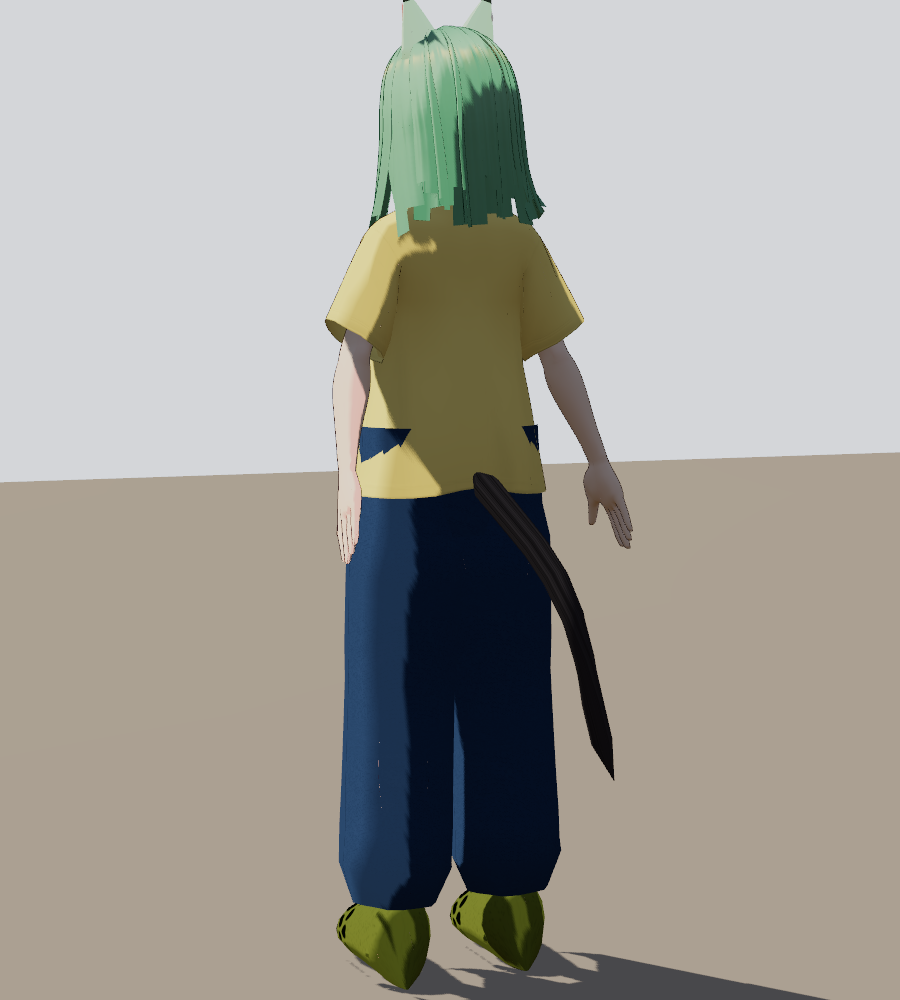
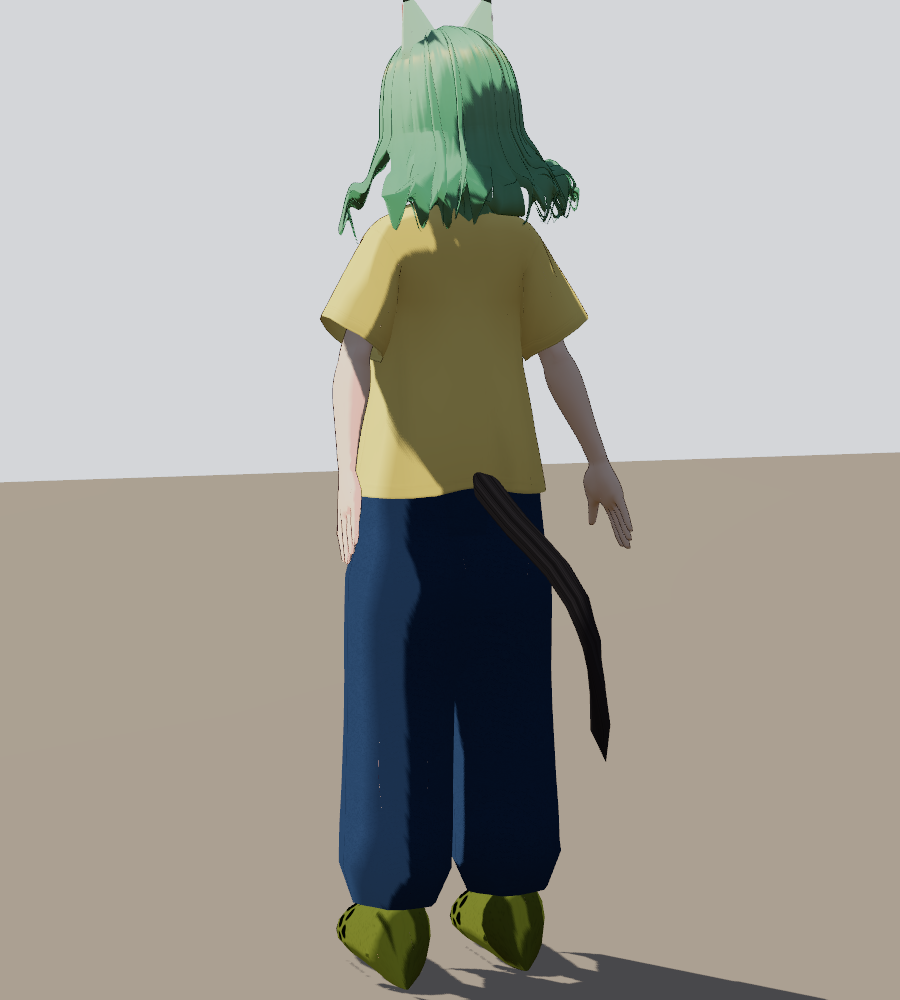
Cat kid: reshape VRoid hair into a shaggy flicked bob, fix trouser waist
Compress the long VRoid strands toward the head so they keep tapered
tips, flick them outward and pin them to the head bone; keep the
generated trouser waist under the loose part of the tee.

Claude-Session: https://claude.ai/code/session_014kRkJrMR3kPH5Lt5yexViw

diff --git a/src/characters/catkid.js b/src/characters/catkid.js
@@ -163,42 +163,51 @@ export class CatKid {
 
 		}
 
-		// cut the long hair into a shaggy bob: drop triangles that hang below the jaw line
-		const neck = this.bonePos( 'neck' );
-		const cutY = neck.y + 0.02;
+		// reshape the long hair into the sheet's shaggy bob: strands below the ear line are compressed
+		// toward the head (so they keep their tapered tips), flicked outward at the ends and pinned to
+		// the head bone so the now-unused hair physics chain can't drag them around
+		const head = this.bonePos( 'head' );
+		const earLine = head.y + 0.055;
+		const jaw = head.y - 0.075;
 		for ( const key of [ 'Hair_00_HAIR', 'HairBack_00_HAIR' ] ) {
 
 			const e = this.meshes[ key ];
 			if ( ! e ) continue;
-			const geo = e.mesh.geometry;
+			const mesh = e.mesh;
+			const geo = mesh.geometry;
 			const pos = geo.attributes.position;
-			if ( ! geo.index ) geo.setIndex( [ ...Array( pos.count ).keys() ] );
-			const idx = geo.index.array;
-			const keep = [];
-			const groups = geo.groups.length ? geo.groups : [ { start: 0, count: idx.length, materialIndex: 0 } ];
-			const newGroups = [];
-			for ( const g of groups ) {
+			const si = geo.attributes.skinIndex, sw = geo.attributes.skinWeight;
+			const headIndex = mesh.skeleton.bones.indexOf( this.bone( 'head' ) );
+			let minY = Infinity;
+			for ( let i = 0; i < pos.count; i ++ ) minY = Math.min( minY, pos.getY( i ) );
+			for ( let i = 0; i < pos.count; i ++ ) {
 
-				const start = keep.length;
-				for ( let i = g.start; i < g.start + g.count; i += 3 ) {
+				const x = pos.getX( i ), y = pos.getY( i ), z = pos.getZ( i );
+				if ( y >= earLine ) continue;
+				const t = ( earLine - y ) / ( earLine - minY ); // 0 at the ear line, 1 at the old tips
+				// side locks framing the face hang a touch longer than the back
+				const front = z > - 0.02 && Math.abs( x ) > 0.055;
+				const len = ( earLine - jaw ) * ( front ? 1.3 : 1.1 ) * ( 1 + 0.15 * Math.sin( x * 140 + z * 60 ) );
+				const ny = earLine - t * len;
+				// shaggy flick: tips kick outward and slightly back
+				const flick = Math.pow( t, 1.8 ) * 0.03;
+				const nx = x + Math.sign( x ) * flick * ( front ? 0.5 : 1 );
+				const nz = z - flick * 0.6 * ( z < - 0.02 ? 1 : 0 );
+				pos.setXYZ( i, nx, ny, nz );
+				if ( si && headIndex >= 0 ) {
 
-					const a = idx[ i ], b = idx[ i + 1 ], c = idx[ i + 2 ];
-					const x = pos.getX( a ), z = pos.getZ( a );
-					// jagged edge: vary the cut height along the strand's position; side locks hang longer
-					const jag = Math.sin( x * 95 + z * 40 ) * 0.028 + Math.sin( x * 310 + z * 120 ) * 0.018;
-					const lim = cutY + jag - ( Math.abs( x ) > 0.07 && z > - 0.03 ? 0.035 : 0 );
-					if ( Math.max( pos.getY( a ), pos.getY( b ), pos.getY( c ) ) < lim ) continue;
-					keep.push( a, b, c );
+					si.setXYZW( i, headIndex, 0, 0, 0 );
+					sw.setXYZW( i, 1, 0, 0, 0 );
 
 				}
 
-				newGroups.push( { start, count: keep.length - start, materialIndex: g.materialIndex } );
-
 			}
 
-			geo.setIndex( keep );
-			geo.clearGroups();
-			for ( const g of newGroups ) geo.addGroup( g.start, g.count, g.materialIndex );
+			pos.needsUpdate = true;
+			if ( si ) si.needsUpdate = true;
+			if ( sw ) sw.needsUpdate = true;
+			geo.computeVertexNormals();
+			geo.computeBoundingBox();
 
 		}
 
@@ -290,17 +299,17 @@ export class CatKid {
 		// waist block
 		b.beginPart( [ 'hips', 'spine', 'leftUpperLeg', 'rightUpperLeg' ], 1.3 );
 		const hipW = Math.abs( this.bonePos( 'leftUpperLeg' ).x - this.bonePos( 'rightUpperLeg' ).x ) / 2;
-		const waistTop = hips.y + 0.08, waistBottom = hips.y - 0.14;
+		const waistTop = hips.y + 0.0, waistBottom = hips.y - 0.14;
 		b.tube( {
 			path: pathLine( new THREE.Vector3( 0, waistBottom, hips.z ), new THREE.Vector3( 0, waistTop, hips.z ), 5 ), segs: 24, cell: 'denim', color: white, capEnd: true, uvRepeat: [ 3, 1 ],
-			profile: ( t ) => ( { rx: hipW * 1.6 + 0.01, rz: hipW * 1.15 + 0.01, rzBack: hipW * 1.08 + 0.006 } ),
+			profile: ( t ) => ( { rx: hipW * 1.42 + 0.008, rz: hipW * 1.15 + 0.01, rzBack: hipW * 1.05 + 0.004 } ),
 		} );
 		for ( const side of [ 'left', 'right' ] ) {
 
 			b.beginPart( [ 'hips', side + 'UpperLeg', side + 'LowerLeg', side + 'Foot' ], 1.2 );
 			const hp = this.bonePos( side + 'UpperLeg' ), kn = this.bonePos( side + 'LowerLeg' ), an = this.bonePos( side + 'Foot' );
 			const bottom = kn.clone().lerp( an, 0.92 );
-			const path = [ hp.clone().add( new THREE.Vector3( 0, 0.08, 0 ) ), ...pathLine( hp, kn, 6 ).slice( 1 ), ...pathLine( kn, bottom, 6 ).slice( 1 ) ];
+			const path = [ hp.clone().add( new THREE.Vector3( 0, 0.02, 0 ) ), ...pathLine( hp, kn, 6 ).slice( 1 ), ...pathLine( kn, bottom, 6 ).slice( 1 ) ];
 			const legR = Math.max( 0.085, hipW * 1.0 );
 			// stays inside the tee above the hem (t < 0.2), then flares out baggy below it
 			const pr = keyed( [ [ 0, legR * 0.98 ], [ 0.14, legR * 1.02 ], [ 0.26, legR * 1.2 ], [ 0.45, legR * 1.16 ], [ 0.52, legR * 1.12 ], [ 0.85, legR * 1.14 ], [ 0.95, legR * 1.18 ], [ 1, legR * 0.88 ] ] );
